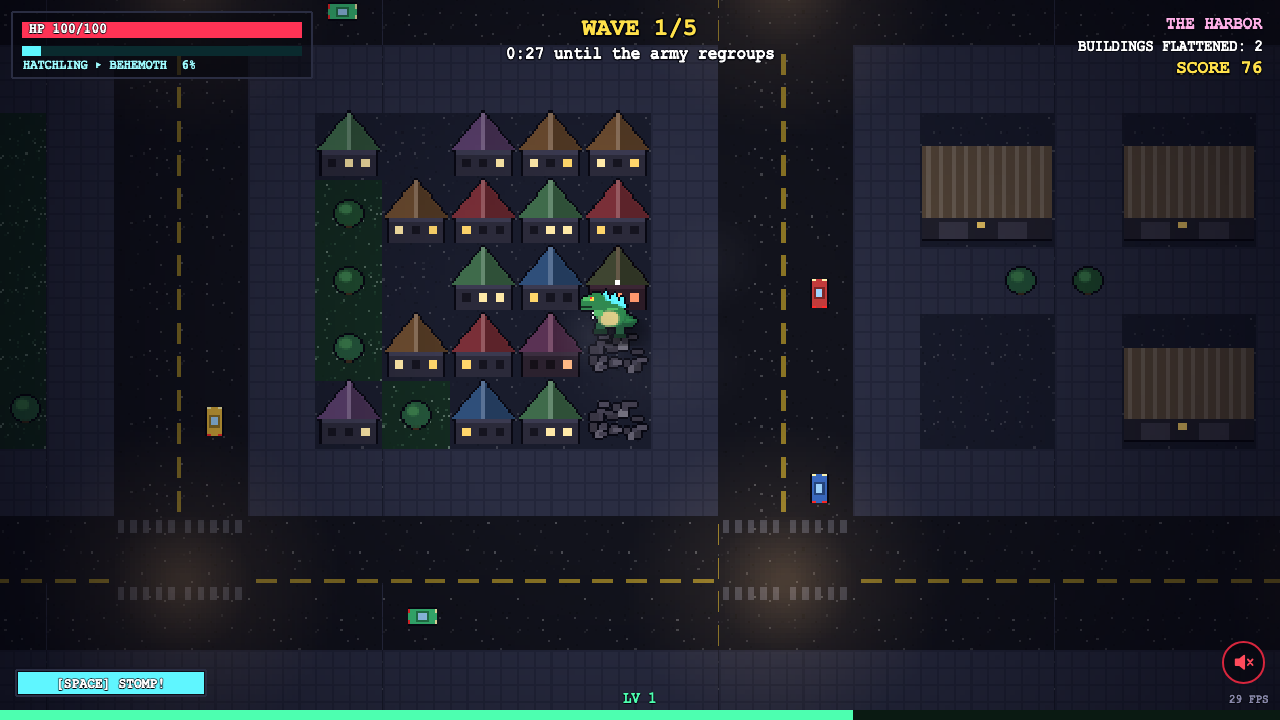
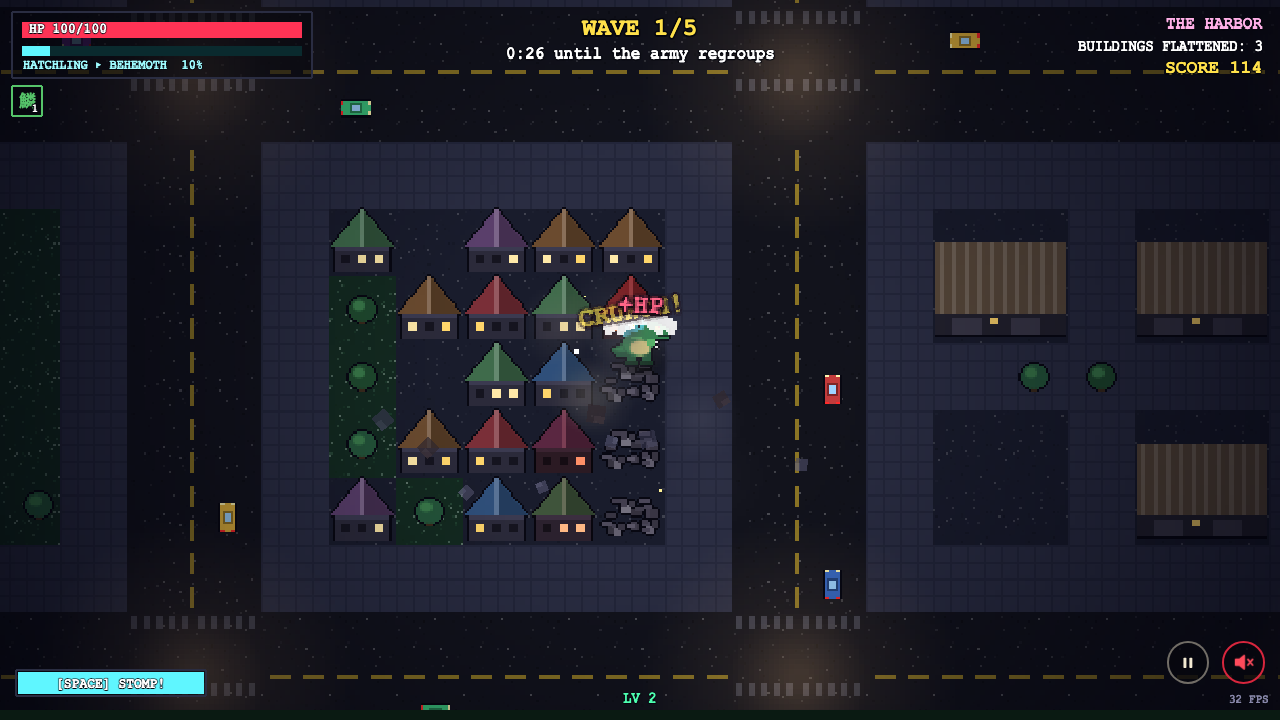
README: pause button and exit-to-title; refresh screenshots (12/12 specs)

diff --git a/README.md b/README.md
@@ -49,7 +49,7 @@ npm run build
 | Space or Shift (gamepad: A) | **Stomp**: shockwave, 5s cooldown |
 | 1 / 2 / 3, or ←/→ then Enter, or click (gamepad: d-pad + A) | Pick an upgrade on level-up |
 | Enter (gamepad: A) | Start, dismiss the news card |
-| P or Esc | Pause / resume |
+| P or Esc, or the pause button beside mute | Pause / resume. From the pause screen, Q (or the button) exits to the title after a confirm |
 | M, or the speaker button in the bottom-right corner | Mute / unmute everything (remembered between runs) |
 | ←/→ on the title screen, or click | Difficulty: **Easy**, **Medium** (default) or **Hard** (remembered; the daily rampage is always Medium) |
 
@@ -108,6 +108,7 @@ Playwright starts its own isolated servers: a mock Anthropic endpoint on :8790, 
 | `pacing.spec.ts` | Skipped unless `PACING=1`: a normal-speed run that logs when each tier and wave is reached (`DIFFICULTY=medium`, `START_WAVE=3` to vary it). |
 | `difficulty.spec.ts` | Skipped unless `DIFF=1`: a stationary kaiju at wave 2 (tier 2) and wave 4 (tier 3) on each difficulty; damage per game second must rise from Easy to Medium to Hard. |
 | `landmarks.spec.ts` | The castle, the KBN-7 tower, pagodas and torii are placed, and each renders (`landmark-*.png`). |
+| `exit.spec.ts` | Pause → Exit asks first (Enter keeps playing), Y returns to the title, and a new run starts cleanly. |
 | `sfx.spec.ts` | All 15 Kenney sample banks (and the Epidemic banks, when present) load and are audible on the master bus (recorded, not played aloud). |
 | `music.spec.ts` | Skipped unless `MUSIC=1`: every music context is audible and unclipped; recorded tracks rotate and sit level with the composer. |
 
